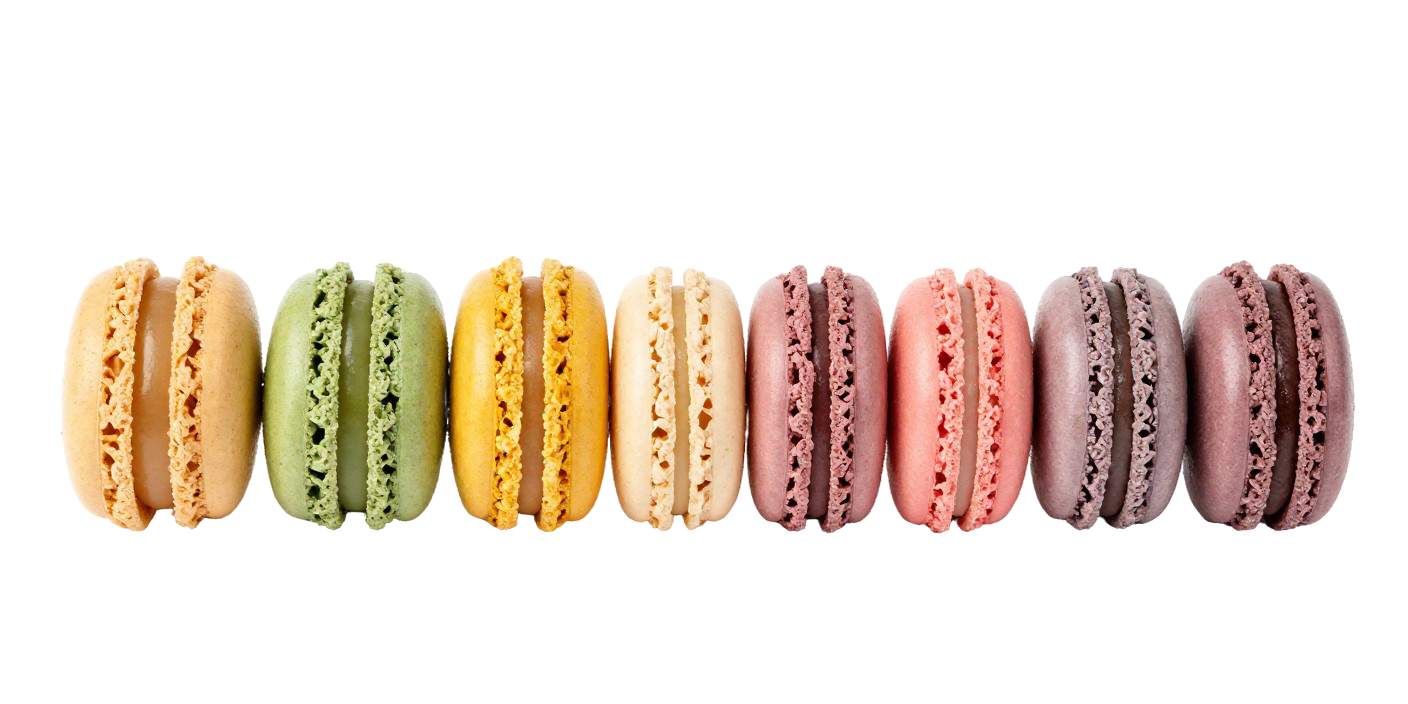
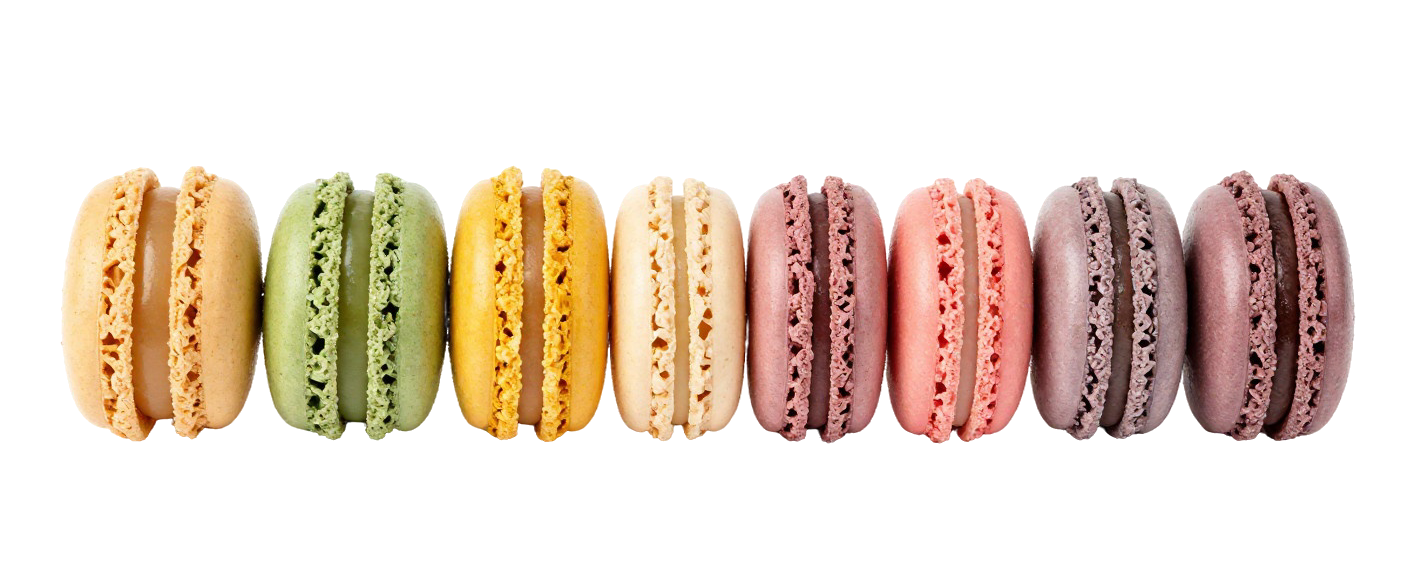
changed styling

Changed region(s): [[0.0312, 0.2788, 0.9688, 0.7745], [0.4688, 0.7435, 0.5, 0.7745]]

diff --git a/src/components/ui/CategoryCard.tsx b/src/components/ui/CategoryCard.tsx
@@ -4,13 +4,16 @@ import type { Category } from "@/types";
 
 type CategoryCardProps = {
   category: Category;
-  href?: string;
+  href: string;
 };
 
 export default function CategoryCard({ category, href }: CategoryCardProps) {
-  const content = (
-    <>
-      <div className="relative h-12 w-12">
+  return (
+    <Link
+      href={href}
+      className="group flex flex-col items-center gap-4 text-center cursor-pointer"
+    >
+      <div className="relative h-12 w-12 sm:h-14 sm:w-14">
         <Image
           src={category.icon}
           alt={category.name}
@@ -21,23 +24,6 @@ export default function CategoryCard({ category, href }: CategoryCardProps) {
       <p className="text-xs font-semibold uppercase tracking-[0.22em] text-muted-foreground sm:text-sm">
         {category.name}
       </p>
-    </>
-  );
-
-  return (
-    <div className="text-center">
-      {href ? (
-        <Link
-          href={href}
-          className="group flex flex-col items-center gap-4 rounded-sm text-center cursor-pointer"
-        >
-          {content}
-        </Link>
-      ) : (
-        <article className="group flex flex-col items-center gap-4 text-center cursor-pointer">
-          {content}
-        </article>
-      )}
-    </div>
+    </Link>
   );
 }

diff --git a/src/components/home/ProductBanner.tsx b/src/components/home/ProductBanner.tsx
@@ -5,27 +5,25 @@ import { productBanner } from "@/data/home";
 
 export default function ProductBanner() {
   return (
-    <section className="overflow-hidden bg-primary">
+    <section className="bg-primary">
       <Container banner className="pt-18">
-        <div className="flex items-center gap-8">
-          <div className="max-w-xl">
-            <h2 className="text-3xl tracking-tight text-primary-foreground sm:text-4xl lg:text-5xl">
+        <div className="flex flex-col sm:flex-row items-center gap-8">
+          <div className="flex flex-col items-center sm:items-start gap-6 text-center sm:text-left">
+            <h2 className="text-2xl text-primary-foreground sm:text-4xl lg:text-5xl">
               {productBanner.title}
             </h2>
 
-            <p className="mt-6 text-base leading-8 text-primary-foreground sm:text-lg">
+            <p className="text-base text-primary-foreground sm:text-lg">
               {productBanner.subtitle}
             </p>
 
-            <div className="mt-8">
-              <Button href="/gallery" variant="secondary">
-                {productBanner.cta}
-              </Button>
-            </div>
+            <Button href="/gallery" variant="secondary">
+              {productBanner.cta}
+            </Button>
           </div>
 
-          <div className="relative h-80 w-full lg:h-90">
-            <Image src={productBanner.image} alt="Macarons" fill priority />
+          <div className="relative h-40 sm:h-80 w-full">
+            <Image src={productBanner.image} alt="Macarons" fill />
           </div>
         </div>
       </Container>

diff --git a/src/components/ui/HeroTitle.tsx b/src/components/ui/HeroTitle.tsx
@@ -1,0 +1,17 @@
+import FadeUp from "../animations/FadeUp";
+
+type HeroTitleProps = {
+  title: string;
+};
+
+const HeroTitle = ({ title }: HeroTitleProps) => {
+  return (
+    <FadeUp>
+      <h1 className="text-4xl font-logo font-medium tracking-tight text-primary-foreground sm:text-5xl lg:text-6xl xl:text-7xl">
+        {title}
+      </h1>
+    </FadeUp>
+  );
+};
+
+export default HeroTitle;

diff --git a/src/components/contact/ContactHero.tsx b/src/components/contact/ContactHero.tsx
@@ -1,27 +1,21 @@
 import Image from "next/image";
 import FadeUp from "../animations/FadeUp";
 import ScaleIn from "../animations/ScaleIn";
+import HeroTitle from "../ui/HeroTitle";
 import { contactHeroCopy } from "@/data/contact";
 
 export default function ContactHero() {
   return (
     <section className="relative overflow-hidden bg-primary pt-14 pb-0 sm:pt-16 lg:pt-20">
-      <div className="mx-auto max-w-6xl px-4 pb-24 text-center sm:px-6 sm:pb-28 lg:px-8 lg:pb-32">
-        <FadeUp className="mx-auto max-w-3xl">
-          <h1 className="text-4xl font-logo font-medium text-primary-foreground sm:text-5xl lg:text-6xl">
-            {contactHeroCopy.title}
-          </h1>
-        </FadeUp>
-
+      <div className="flex flex-col items-center gap-3 mx-auto max-w-6xl px-4 pb-24 text-center sm:px-6 sm:pb-28 lg:px-8 lg:pb-32">
+        <HeroTitle title={contactHeroCopy.title} />
         <FadeUp delay={0.1}>
-          <p className="mt-3 text-base leading-7 sm:text-lg sm:leading-8">
-            {contactHeroCopy.subtitle}
-          </p>
+          <p className="text-xl">{contactHeroCopy.subtitle}</p>
         </FadeUp>
       </div>
 
       <ScaleIn delay={0.2}>
-        <div className="pointer-events-none absolute inset-x-0 -bottom-3.5 sm:-bottom-70">
+        <div className="pointer-events-none absolute inset-x-0 -bottom-3.5 sm:-bottom-65">
           <div className="mx-auto w-full max-w-7xl px-4 sm:px-6 lg:px-8">
             <Image
               src="/macarons.png"

diff --git a/src/components/gallery/GalleryHero.tsx b/src/components/gallery/GalleryHero.tsx
@@ -1,10 +1,18 @@
-import HeroContent from "../shared/HeroContent";
+import FadeUp from "../animations/FadeUp";
 import { galleryHero } from "@/data/gallery";
+import HeroTitle from "../ui/HeroTitle";
 
 export default function GalleryHero() {
   return (
-    <section className="bg-primary">
-      <HeroContent title={galleryHero.title} subtitle={galleryHero.subtitle} />
+    <section className="bg-primary mx-auto py-16">
+      <div className="flex flex-col items-center gap-10 text-center">
+        <HeroTitle title={galleryHero.title} />
+        <FadeUp delay={0.1}>
+          <p className="max-w-4xl text-primary-foreground text-xl">
+            {galleryHero.subtitle}
+          </p>
+        </FadeUp>
+      </div>
     </section>
   );
 }

diff --git a/src/components/home/HomeHero.tsx b/src/components/home/HomeHero.tsx
@@ -1,14 +1,22 @@
 import Image from "next/image";
 import { homeHero } from "@/data/home";
 import ScaleIn from "../animations/ScaleIn";
-import HeroContent from "../shared/HeroContent";
+import FadeUp from "../animations/FadeUp";
 import Container from "../ui/Container";
+import HeroTitle from "../ui/HeroTitle";
 
 export default function HomeHero() {
   return (
     <section className="bg-primary">
-      <Container className="flex flex-col md:flex-row justify-between items-center gap-8">
-        <HeroContent title={homeHero.title} subtitle={homeHero.subtitle} />
+      <Container className="flex flex-col md:flex-row justify-between items-center gap-8 pt-12 sm:pt-0">
+        <div className="flex flex-col items-center gap-6 text-center">
+          <HeroTitle title={homeHero.title} />
+          <FadeUp delay={0.1}>
+            <p className="max-w-xl text-lg text-primary-foreground sm:text-xl lg:text-2xl">
+              {homeHero.subtitle}
+            </p>
+          </FadeUp>
+        </div>
         <ScaleIn delay={0.1} scale={0.96}>
           <div className="relative h-56 w-56 sm:h-84 sm:w-84 lg:h-128 lg:w-128">
             <Image src={homeHero.image} alt="Pastel cupcake" priority fill />

diff --git a/src/components/menu/MenuHero.tsx b/src/components/menu/MenuHero.tsx
@@ -1,12 +1,20 @@
-import HeroContent from "../shared/HeroContent";
+import FadeUp from "../animations/FadeUp";
 import Container from "../ui/Container";
 import { menuHero } from "@/data/menu";
+import HeroTitle from "../ui/HeroTitle";
 
 export default function MenuHero() {
   return (
-    <section className="bg-primary mx-auto py-16">
+    <section className="bg-primary mx-auto py-24">
       <Container>
-        <HeroContent title={menuHero.title} subtitle={menuHero.subtitle} />
+        <div className="flex flex-col items-center gap-3 text-center">
+          <HeroTitle title={menuHero.title} />
+          <FadeUp delay={0.1}>
+            <p className="max-w-4xl text-xl text-primary-foreground">
+              {menuHero.subtitle}
+            </p>
+          </FadeUp>
+        </div>
       </Container>
     </section>
   );

diff --git a/src/components/layout/Footer.tsx b/src/components/layout/Footer.tsx
@@ -12,8 +12,8 @@ export default function Footer() {
         tone="text-background"
       />
       <Container banner className="flex flex-col gap-12 pb-8 pt-16">
-        <div className="grid gap-12 xl:grid-cols-[2fr_1fr_1fr_2fr] xl:items-start">
-          <div>
+        <div className="grid gap-12 md:grid-cols-2 xl:grid-cols-5 xl:items-start">
+          <div className="md:col-span-2 xl:col-span-2">
             <div className="font-logo text-4xl text-white">{brand.name}</div>
             <p className="mt-4 max-w-md text-sm text-white/80">
               {brand.tagline}
@@ -33,7 +33,7 @@ export default function Footer() {
             </div>
           </div>
 
-          <div>
+          <div className="xl:col-span-1">
             <h3 className="text-sm font-semibold uppercase tracking-[0.22em] text-white">
               {footerColumns[0].title}
             </h3>
@@ -50,7 +50,7 @@ export default function Footer() {
             </div>
           </div>
 
-          <div>
+          <div className="xl:col-span-1">
             <h3 className="text-sm font-semibold uppercase tracking-[0.22em] text-white">
               {footerColumns[1].title}
             </h3>
@@ -67,11 +67,11 @@ export default function Footer() {
             </div>
           </div>
 
-          <div>
+          <div className="xl:col-span-1">
             <h3 className="text-sm font-semibold uppercase tracking-[0.22em] text-white">
               Contact
             </h3>
-            <div className="mt-4 grid gap-4 sm:grid-cols-2">
+            <div className="mt-4 grid gap-4">
               {contactInfoCards.map((card) => (
                 <div
                   key={card.title}

diff --git a/src/components/contact/ContactInfo.tsx b/src/components/contact/ContactInfo.tsx
@@ -13,16 +13,16 @@ export default function ContactInfo() {
       <Container>
         <div className="grid items-start gap-8 lg:grid-cols-2 lg:gap-10 xl:gap-14">
           <div className="space-y-8">
-            <div className="grid gap-4 sm:grid-cols-2">
+            <div className="grid gap-4 grid-cols-2">
               {contactInfoCards.map((card, index) => (
                 <FadeUp key={card.title} delay={index * 0.08}>
                   <Card className="h-full flex-col border-0 bg-secondary/20 px-4 py-4 text-center rounded-xl">
                     <card.icon
-                      className="mx-auto h-10 w-10 text-secondary"
+                      className="mx-auto h-6 w-6 sm:h-10 sm:w-10 text-secondary"
                       aria-hidden="true"
                     />
 
-                    <h3 className="text-lg font-semibold text-foreground">
+                    <h3 className="text-lg font-semibold text-foreground ">
                       {card.title}
                     </h3>
 

diff --git a/src/components/home/FeaturedProducts.tsx b/src/components/home/FeaturedProducts.tsx
@@ -29,7 +29,7 @@ export default function FeaturedProducts() {
               type="button"
               onClick={() => setActiveTab(tab)}
               className={clsx(
-                "text-lg font-semibold cursor-pointer",
+                "sm:text-lg font-semibold cursor-pointer",
                 active
                   ? "text-secondary"
                   : "text-foreground transition hover:text-secondary",
@@ -41,8 +41,8 @@ export default function FeaturedProducts() {
         })}
       </div>
 
-      <Container className="mt-10">
-        <FadeUp key={activeTab} y={18} className="relative">
+      <Container className="mt-6 sm:mt-10">
+        <FadeUp key={activeTab} className="relative">
           <EmblaCarousel
             items={filteredProducts}
             className="mx-auto max-w-6xl"

diff --git a/src/data/categories.ts b/src/data/categories.ts
@@ -17,7 +17,7 @@ export const categories: Category[] = [
     id: "pastries",
     name: "Pastries",
     icon: "/pastries-icon.png",
-    popular: true,
+    popular: false,
   },
   {
     id: "macarons",
@@ -53,6 +53,6 @@ export const categories: Category[] = [
     id: "brownies",
     name: "Brownies",
     icon: "/brownies-icon.png",
-    popular: false,
+    popular: true,
   },
 ];

diff --git a/src/components/contact/ContactForm.tsx b/src/components/contact/ContactForm.tsx
@@ -5,7 +5,7 @@ import Input from "../ui/Input";
 
 const ContactForm = () => {
   return (
-    <FadeUp y={20} delay={0.08}>
+    <FadeUp delay={0.08}>
       <div className="bg-white">
         <h2 className="text-3xl font-medium tracking-tight text-foreground sm:text-4xl">
           Get In Touch